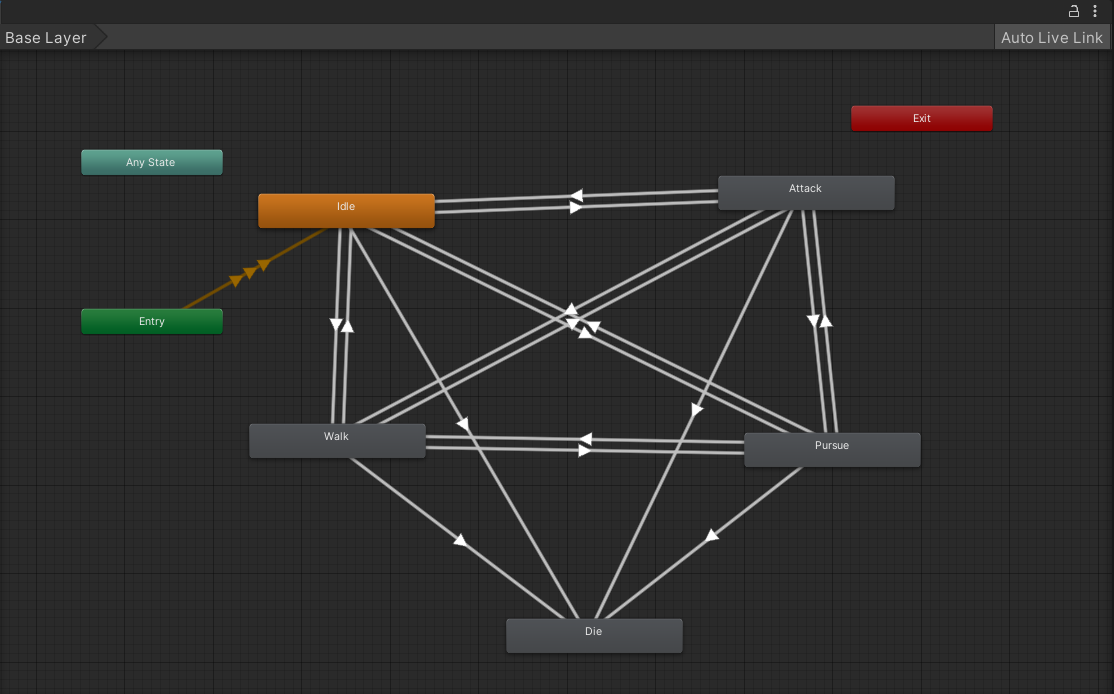
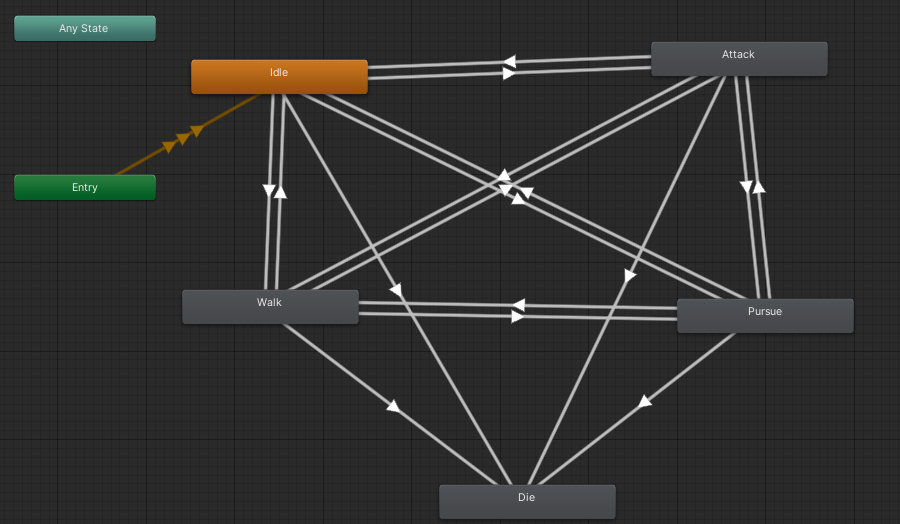
ADD FSM ANIMATION SUBSECTION

diff --git a/Projects/FSM.html b/Projects/FSM.html
@@ -118,12 +118,49 @@
    <div class="text">
     <p>
        I made the simulation playable, sort of like a mini-game, so I can practise how to program an AI agent in a game and how to solve problems
-       I might face in different scenarios.
-       The gameplay here is simple : the red dragon is guarding her own egg in the ruins of what is left from a dragons pit, the player 
+       I might face in different scenarios.<br>
+       The gameplay here is simple : the red dragon is guarding her own egg in what is left from a dragon's pit, the player 
        has to drag the dragon to the black magical vortex to kill her and take the egg to win.
     </p>
    </div>
 </div>
+
+
+<!--Animation subsection-->
+<div class="subPara">
+  <h2 class="heading"> Dragon Animation System</h2>
+   <div class="text">
+    <p>
+      <strong>Finite State Machine</strong> model is used in this simulation to control the behavior of a dragon agent by controlling its animation
+      system. I started with writing the main class that the other states (actions) will inherit from. <br>
+      The dragon agent has five animations: <strong>Idle, Walk, Pursue, Attack and Die.</strong> 
+      Each of these animations is considered a state that the State Machine control its flow, so the <strong>State Class</strong> 
+      have all these animations stored in an enum.
+      
+    </p>
+    <p>
+       Any state in the State Machine has three processes that run at a different time:<strong> Enter, Update and Exit.</strong><br>
+       These processes (events) are also stored in an enum. Then using a virtual method for each process, the methods will be overridden by 
+       each state settings, triggers and rules.The Process method control the flow from one stage to another for each action and calls the
+        method for the current stage.It also ensures to call the next state in the exit method.<br>
+       The <strong>Update</strong> process is where the state machine decides when to transition to the next state or stay running the current one,
+       if the condition is met then the exit process is run and the next state starts running by calling the enter process.
+    </p>
+    
+    <div class="img-container">
+      <figure>
+      <img src="./FSM_imgs/Animator.png" alt="dragon character animator">
+      <figcaption>Dragon's Animator</figcaption>
+    </figure>
+    <figure>
+      <img src="./FSM_imgs/Dragon_animation.gif" alt="dragon's animation clip">
+      <figcaption>Dragon's Idle Clip</figcaption>
+      </figure>
+    </div>
+   </div>
+  </div>
+
+
 </section>   
 </body>
 </html>
